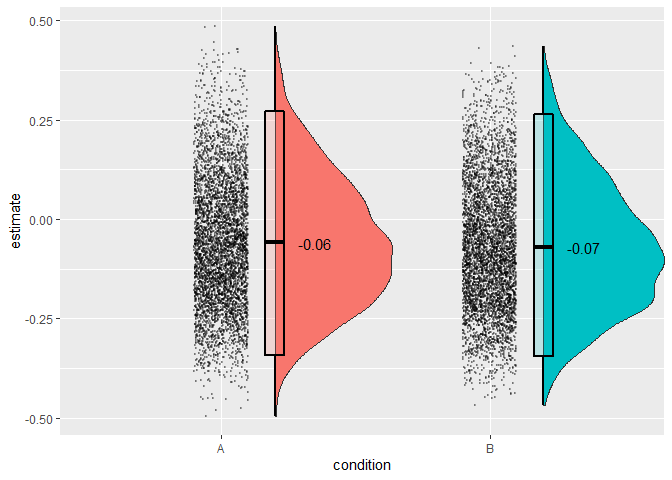
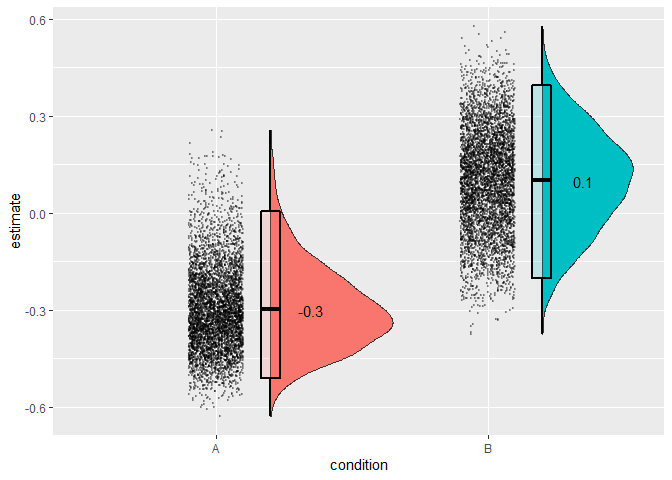
bug fixes in multiverse

diff --git a/README.md b/README.md
@@ -259,16 +259,16 @@ sim_data %>%
 # Groups:   participant_number, block_name [120]
    participant_number block_name congruent incongruent   bias
                 <int> <fct>          <dbl>       <dbl>  <dbl>
- 1                  1 A               521.        532. -11.5 
- 2                  1 B               537.        508.  29.1 
- 3                  2 A               501.        541. -40.3 
- 4                  2 B               518.        520.  -1.90
- 5                  3 A               478.        446.  31.8 
- 6                  3 B               500.        465.  34.8 
- 7                  4 A               529.        471.  57.9 
- 8                  4 B               531.        513.  17.3 
- 9                  5 A               471.        491. -19.8 
-10                  5 B               446.        490. -43.6 
+ 1                  1 A               451.        500. -49.2 
+ 2                  1 B               499.        514. -14.8 
+ 3                  2 A               550.        514.  36.1 
+ 4                  2 B               512.        488.  23.7 
+ 5                  3 A               540.        492.  48.6 
+ 6                  3 B               505.        452.  53.3 
+ 7                  4 A               490.        518. -28.5 
+ 8                  4 B               471.        468.   3.35
+ 9                  5 A               525.        499.  25.6 
+10                  5 B               534.        505.  28.8 
 # ... with 110 more rows
 ```
 
@@ -295,8 +295,8 @@ difference <- splithalf(data = sim_data,
 
 ``` 
   condition  n splithalf 95_low 95_high spearmanbrown SB_low SB_high
-1         A 60     -0.03  -0.21    0.16         -0.06  -0.34    0.27
-2         B 60     -0.04  -0.21    0.15         -0.07  -0.35    0.26
+1         A 60     -0.18  -0.34    0.00          -0.3  -0.51    0.01
+2         B 60      0.06  -0.11    0.25           0.1  -0.20    0.40
 ```
 
 Specifying `plot = TRUE` will also allow you to plot the distributions
@@ -335,7 +335,7 @@ formula is not useful in this case.
 > We estimated the internal consitency of bias A and B using a
 > permutation-based splithalf approach (Parsons 2020a) with 5000 random
 > splits. The (Spearman-Brown corrected) splithalf internal consistency
-> of bias A was were *r*<sub>SB</sub> = -0.06, 95%CI \[-0.34,0.27\].
+> of bias A was were *r*<sub>SB</sub> = -0.3, 95%CI \[-0.51,0.01\].
 > 
 > — Parsons, 2020
 
@@ -365,8 +365,8 @@ var.trialnum will soon be depreciated
 
 ``` 
   condition  n splithalf 95_low 95_high spearmanbrown SB_low SB_high
-1         A 60      0.02  -0.15    0.21          0.04  -0.27    0.35
-2         B 60      0.15  -0.02    0.34          0.25  -0.04    0.50
+1         A 60     -0.17  -0.34    0.02         -0.28  -0.50    0.04
+2         B 60     -0.10  -0.27    0.09         -0.17  -0.43    0.17
 ```
 
 ### Difference-of-difference scores
@@ -417,7 +417,7 @@ Warning in splithalf(data = sim_data, outcome = "RT", score =
 
 ``` 
      condition  n splithalf 95_low 95_high spearmanbrown SB_low SB_high
-1 change score 60         0  -0.17    0.18             0  -0.29    0.31
+1 change score 60      -0.1  -0.27    0.09         -0.17  -0.43    0.16
 ```
 
 ## Multiverse analysis extension
@@ -451,14 +451,8 @@ difference <- splithalf(data = sim_data,
                         compare1 = "congruent",
                         compare2 = "incongruent",
                         average = "mean")
-#> Warning in splithalf(data = sim_data, outcome = "RT", score = "difference", :
-#> var.trialnum will soon be depreciated
-#>   |                                                                              |                                                                      |   0%  |                                                                              |==                                                                    |   3%  |                                                                              |====                                                                  |   5%  |                                                                              |=====                                                                 |   7%  |                                                                              |======                                                                |   8%  |                                                                              |=======                                                               |  10%  |                                                                              |========                                                              |  12%  |                                                                              |=========                                                             |  13%  |                                                                              |==========                                                            |  15%  |                                                                              |============                                                          |  17%  |                                                                              |=============                                                         |  18%  |                                                                              |==============                                                        |  20%  |                                                                              |===============                                                       |  22%  |                                                                              |================                                                      |  23%  |                                                                              |==================                                                    |  25%  |                                                                              |===================                                                   |  27%  |                                                                              |====================                                                  |  28%  |                                                                              |=====================                                                 |  30%  |                                                                              |======================                                                |  32%  |                                                                              |=======================                                               |  33%  |                                                                              |========================                                              |  35%  |                                                                              |==========================                                            |  37%  |                                                                              |===========================                                           |  38%  |                                                                              |============================                                          |  40%  |                                                                              |=============================                                         |  42%  |                                                                              |==============================                                        |  43%  |                                                                              |================================                                      |  45%  |                                                                              |=================================                                     |  47%  |                                                                              |==================================                                    |  48%  |                                                                              |===================================                                   |  50%  |                                                                              |====================================                                  |  52%  |                                                                              |=====================================                                 |  53%  |                                                                              |======================================                                |  55%  |                                                                              |========================================                              |  57%  |                                                                              |=========================================                             |  58%  |                                                                              |==========================================                            |  60%  |                                                                              |===========================================                           |  62%  |                                                                              |============================================                          |  63%  |                                                                              |==============================================                        |  65%  |                                                                              |===============================================                       |  67%  |                                                                              |================================================                      |  68%  |                                                                              |=================================================                     |  70%  |                                                                              |==================================================                    |  72%  |                                                                              |===================================================                   |  73%  |                                                                              |====================================================                  |  75%  |                                                                              |======================================================                |  77%  |                                                                              |=======================================================               |  78%  |                                                                              |========================================================              |  80%  |                                                                              |=========================================================             |  82%  |                                                                              |==========================================================            |  83%  |                                                                              |============================================================          |  85%  |                                                                              |=============================================================         |  87%  |                                                                              |==============================================================        |  88%  |                                                                              |===============================================================       |  90%  |                                                                              |================================================================      |  92%  |                                                                              |=================================================================     |  93%  |                                                                              |==================================================================    |  95%  |                                                                              |====================================================================  |  97%  |                                                                              |===================================================================== |  98%  |                                                                              |======================================================================| 100%[1] "condition A complete"
-#> [1] "Calculating split half estimates"
-#> [1] "split half estimates for 5000 random splits"
-#>   condition  n spearmanbrown SB_low SB_high
-#> 1         A 60         -0.06  -0.35    0.28
-#> [1] "this could be reported as: using 5000 random splits, the spearman-brown corrected reliability  estimate for the A condition was -0.06, 95% CI [-0.35, 0.28]"
+Warning in splithalf(data = sim_data, outcome = "RT", score = "difference", :
+var.trialnum will soon be depreciated
 ```
 
 Third, perform `splithalf.multiverse` with the specification list and
@@ -467,9 +461,6 @@ splithalf objects as inputs
 ``` r
 multiverse <- splithalf.multiverse(input = difference,
                                    specifications = specifications)
-#> [1] "running 12 pre-processing specifications"
-#>   |                                                                              |                                                                      |   0%  |                                                                              |======                                                                |   8%  |                                                                              |============                                                          |  17%  |                                                                              |==================                                                    |  25%  |                                                                              |=======================                                               |  33%  |                                                                              |=============================                                         |  42%  |                                                                              |===================================                                   |  50%  |                                                                              |=========================================                             |  58%  |                                                                              |===============================================                       |  67%  |                                                                              |====================================================                  |  75%  |                                                                              |==========================================================            |  83%  |                                                                              |================================================================      |  92%  |                                                                              |======================================================================| 100%[1] "running reliability estimates"
-#>   |                                                                              |                                                                      |   0%  |                                                                              |======                                                                |   8%  |                                                                              |============                                                          |  17%  |                                                                              |==================                                                    |  25%  |                                                                              |=======================                                               |  33%  |                                                                              |=============================                                         |  42%  |                                                                              |===================================                                   |  50%  |                                                                              |=========================================                             |  58%  |                                                                              |===============================================                       |  67%  |                                                                              |====================================================                  |  75%  |                                                                              |==========================================================            |  83%  |                                                                              |================================================================      |  92%  |                                                                              |======================================================================| 100%
 ```
 
 Finally, plot the multiverse with plot.multiverse.
@@ -478,6 +469,8 @@ Finally, plot the multiverse with plot.multiverse.
 multiverse.plot(multiverse = multiverse,
                 title = "README multiverse")
 ```
+
+![](README-unnamed-chunk-21-1.png)<!-- -->
 
 For more information, see Parsons (2020).
 
@@ -524,6 +517,8 @@ Currently, I have the following on my immediate to do list:
       - signal detection, e.g. d prime
       - potentially customisable methods, e.g. where the outcome is
         scored in formats similar to A - B / A + B
+
+## References
 
 <div id="refs" class="references">
 
